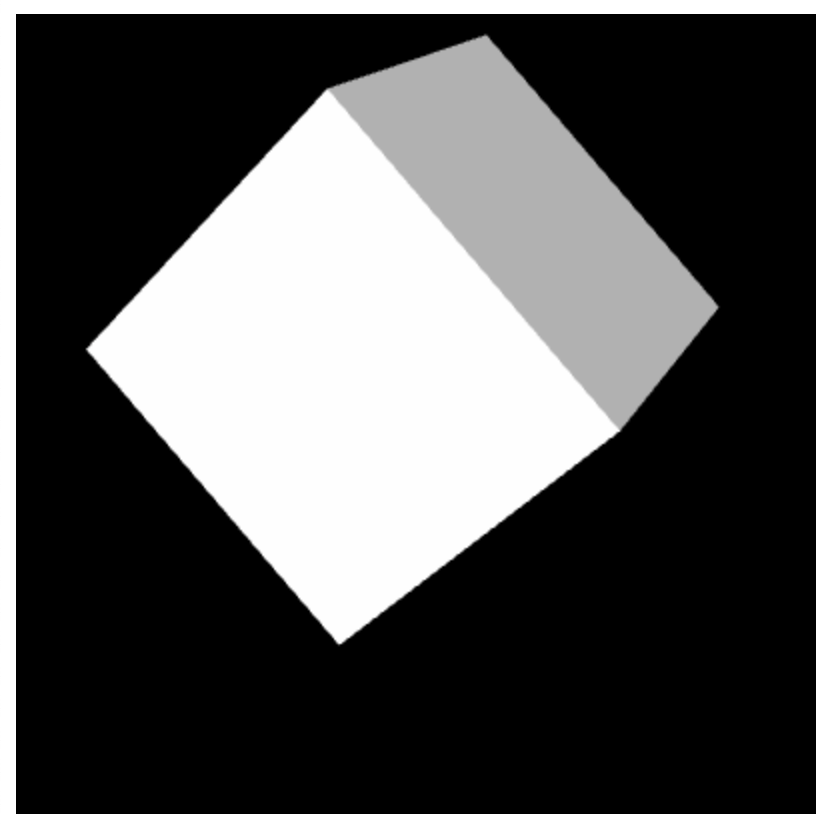
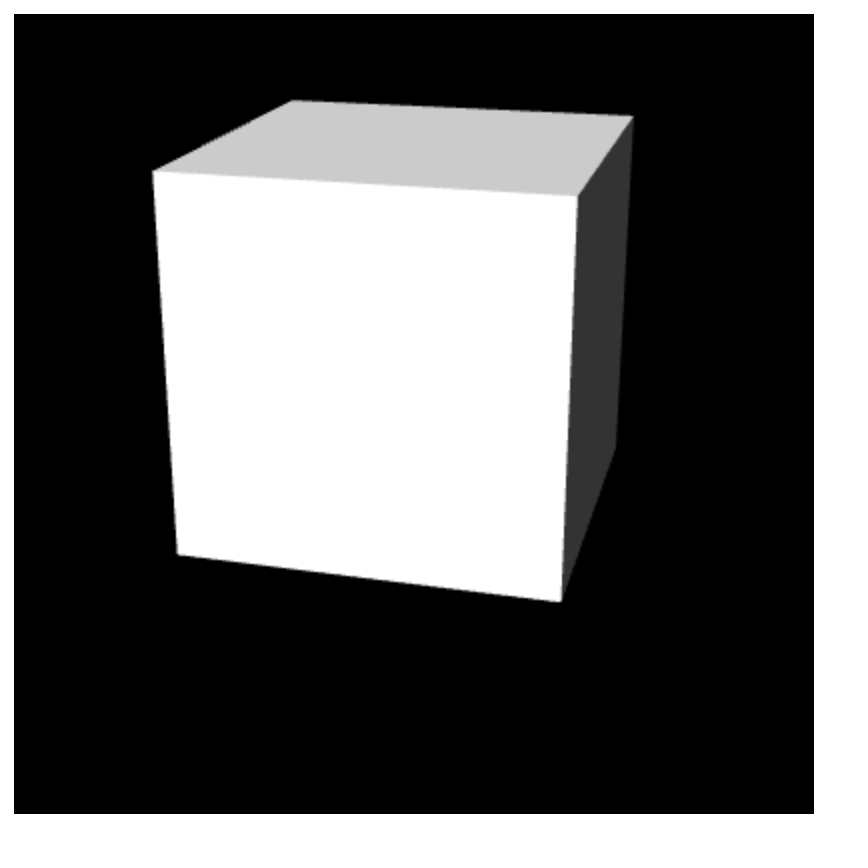
PointLightedCube

Changed region(s): [[0.0906, 0.0303, 0.8756, 0.7869], [0.0, 0.0, 0.9964, 0.9988]]

diff --git a/Ch8_3_PointLightedCube/main.js b/Ch8_3_PointLightedCube/main.js
@@ -1,17 +1,20 @@
 var VSHADER_SOURCE = 
 'attribute vec4 a_Position;\n'+
 'uniform mat4 u_MvpMatrix;\n'+
+'uniform mat4 u_ModelMatrix;\n'+
 'uniform mat4 u_NormalMatrix;\n'+
 'attribute vec4 a_Color;\n'+
 'attribute vec4 a_Normal;\n'+
 'uniform vec3 u_LightColor;\n'+
-'uniform vec3 u_LightDirection;\n'+
+'uniform vec3 u_LightPosition;\n'+
 'uniform vec3 u_AmbientLight;\n'+
 'varying vec4 v_Color;\n'+
 'void main(){\n'+
 'gl_Position = u_MvpMatrix * a_Position;\n'+
 'vec3 normal = normalize(vec3(u_NormalMatrix * a_Normal));\n'+
-'float nDotL = max(dot(u_LightDirection, normal), 0.0);\n'+
+'vec4 vertexPosition = u_ModelMatrix * a_Position;\n'+
+'vec3 lightDirection = normalize(u_LightPosition - vec3(vertexPosition));\n'+
+'float nDotL = max(dot(lightDirection, normal), 0.0);\n'+
 'vec3 diffuse = u_LightColor * vec3(a_Color) * nDotL;\n'+
 'vec3 ambient = u_AmbientLight * a_Color.rgb;\n'+
 'v_Color = vec4(diffuse + ambient, a_Color.a);\n'+
@@ -54,6 +57,12 @@ function main() {
         return;
     }
 
+    var u_ModelMatrix = gl.getUniformLocation(gl.program,"u_ModelMatrix");
+    if (u_ModelMatrix == null) {
+        console.error("can't find u_ModelMatrix");
+        return;
+    }
+
     var u_NormalMatrix = gl.getUniformLocation(gl.program,"u_NormalMatrix");
     if (u_NormalMatrix == null) {
         console.error("can't find u_NormalMatrix");
@@ -66,9 +75,9 @@ function main() {
         return;
     }
 
-    var u_LightDirection = gl.getUniformLocation(gl.program,"u_LightDirection");
-    if (u_LightDirection == null) {
-        console.error("can't find u_LightDirection");
+    var u_LightPosition = gl.getUniformLocation(gl.program,"u_LightPosition");
+    if (u_LightPosition == null) {
+        console.error("can't find u_LightPosition");
         return;
     }
 
@@ -80,29 +89,27 @@ function main() {
 
     gl.clearColor(0.0,0.0,0.0,1.0);
     gl.enable(gl.DEPTH_TEST);
-    gl.clear(gl.COLOR_BUFFER_BIT|gl.DEPTH_BUFFER_BIT);
-
+    
     var mMatrix = new Matrix4();
-    var nMatrix = new Matrix4();
     var vMatrix = new Matrix4();
     var pMatrix = new Matrix4();
     var mvpMatrix = new Matrix4();
+    var nMatrix = new Matrix4();
     
+    gl.uniform3f(u_LightPosition, 0.0, 2.0, 3.0);
     gl.uniform3f(u_LightColor,1.0,1.0,1.0);
     gl.uniform3f(u_AmbientLight,0.2,0.2,0.2);
-    var lightDirection = new Vector3([0.5,3.0,4.0]);
-    lightDirection.normalize();
-    gl.uniform3fv(u_LightDirection, lightDirection.elements);
-
     var currAngle = 0;
     var tick = function () {
         currAngle = animate(currAngle);
-        mMatrix.setTranslate(0,0.5,0);
-        mMatrix.rotate(currAngle,0,0,1)
+        mMatrix.setTranslate(0,0,0);
+        mMatrix.scale(1.5,1.5,1.5);
+        mMatrix.rotate(currAngle,0,1,0);
         vMatrix.setLookAt(3,3,7,0,0,0,0,1,0);
         pMatrix.setPerspective(30,1,1,100);
         mvpMatrix.set(pMatrix).multiply(vMatrix).multiply(mMatrix);
         gl.uniformMatrix4fv(u_MvpMatrix,false,mvpMatrix.elements);
+        gl.uniformMatrix4fv(u_ModelMatrix, false, mMatrix.elements);
         nMatrix.setInverseOf(mMatrix);
         nMatrix.transpose();
         gl.uniformMatrix4fv(u_NormalMatrix,false,nMatrix.elements);
@@ -111,7 +118,6 @@ function main() {
         requestAnimationFrame(tick);
     }
     tick();
-
 }
 
 /**
@@ -127,14 +133,6 @@ function initVertexBuffer(gl) {
         -1.0, -1.0, 1.0, 1.0, -1.0, 1.0, 1.0, -1.0, -1.0, -1.0, -1.0, -1.0, //down
         1.0, -1.0, -1.0, 1.0, 1.0, -1.0, -1.0, 1.0, -1.0, -1.0, -1.0, -1.0 //back
     ]);
-    // var colors = new Float32Array([
-    //     0.4, 0.4, 1.0, 0.4, 0.4, 1.0, 0.4, 0.4, 1.0, 0.4, 0.4, 1.0, //front
-    //     0.4, 1.0, 0.4, 0.4, 1.0, 0.4, 0.4, 1.0, 0.4, 0.4, 1.0, 0.4, //right
-    //     1.0, 0.4, 0.4, 1.0, 0.4, 0.4, 1.0, 0.4, 0.4, 1.0, 0.4, 0.4, //up
-    //     1.0, 1.0, 0.4, 1.0, 1.0, 0.4, 1.0, 1.0, 0.4, 1.0, 1.0, 0.4, //left
-    //     1.0, 0.4, 1.0, 1.0, 0.4, 1.0, 1.0, 0.4, 1.0, 1.0, 0.4, 1.0, //btm
-    //     0.4, 1.0, 1.0, 0.4, 1.0, 1.0, 0.4, 1.0, 1.0, 0.4, 1.0, 1.0 //back
-    // ]);
     var colors = new Float32Array([
         1.0, 1.0, 1.0, 1.0, 1.0, 1.0, 1.0, 1.0, 1.0, 1.0, 1.0, 1.0, 
         1.0, 1.0, 1.0, 1.0, 1.0, 1.0, 1.0, 1.0, 1.0, 1.0, 1.0, 1.0, 

diff --git a/Ch8_3_PointLightedCube/index.html b/Ch8_3_PointLightedCube/index.html
@@ -1,0 +1,20 @@
+<!DOCTYPE html>
+<html>
+    <head>
+        <meta charset="utf-8"/>
+        <!-- <style>
+            body{
+                background-color:blue;
+            }
+        </style> -->
+        <title>Hello Canvas</title>
+    </head>
+    <body onload="main()">
+        <canvas id="webgl" width="800" height="800"></canvas>
+        <script src="../lib/cuon-matrix.js"></script>
+        <script src="../lib/cuon-utils.js"></script>
+        <script src="../lib/webgl-debug.js"></script>
+        <script src="../lib/webgl-utils.js"></script>
+        <script src="main.js"></script>
+    </body>
+</html>

diff --git a/README.md b/README.md
@@ -24,6 +24,7 @@
 ![image](https://github.com/gaolizheng/LearnWebGL/blob/master/Ch8_1_LightedCube/effect.png)
 
 ## ch8_2 运动物体的光照效果
+
 >物体的运动会改变每个表面的法向量，平移、旋转和缩放对法向量的影响如下:
 
 >>平移变换不会改变法向量
@@ -36,8 +37,16 @@
 
 >>逆矩阵：如果矩阵**M**的逆矩阵是**R**，那么**M** * **R**或**R** * **M**的结果都是单位矩阵。
 
->>求逆转置矩阵的步骤:1.求原矩阵的逆矩阵。 2.将你矩阵进行转置。
+>>求逆转置矩阵的步骤:1.求原矩阵的逆矩阵。 2.将逆矩阵进行转置。
 
 >待补充数学相关知识
 
 ![image](https://github.com/gaolizheng/LearnWebGL/blob/master/Ch8_2_LightedMovedCube/effect.png)
+
+## ch8_3 点光源光照
+
+>点光源与平行光的区别在于入射光的角度是随顶点坐标变化的，所以不能指定光源方向，而要指定光源位置，逐顶点计算入射光线方向。
+
+>将立方体放大一些，比较容易看到立方体上有一些不自然的线条，这是因为我们是通过计算顶点光照颜色然后内差值出每个片元的颜色。
+
+![image](https://github.com/gaolizheng/LearnWebGL/blob/master/Ch8_3_PointLightedCube/effect.png)
